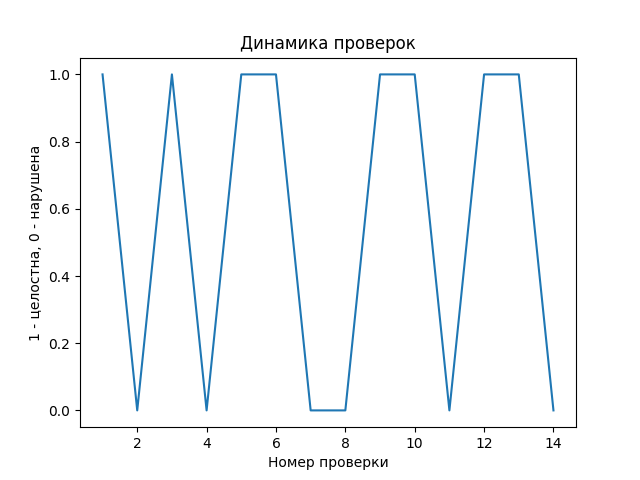
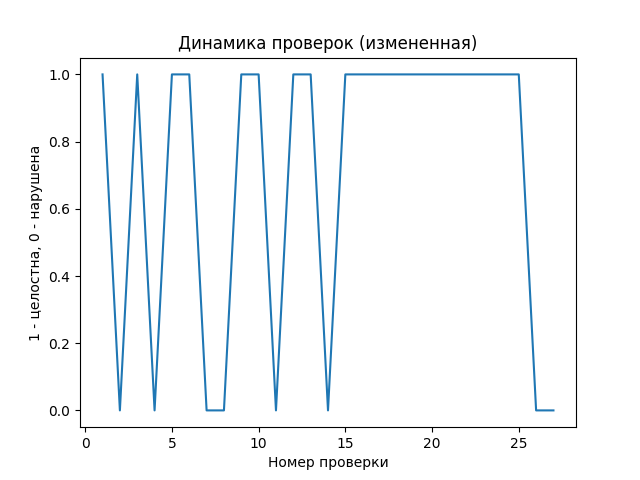
Изменение 8 - индивидуальное задание
Для наглядной демонстрации изменений были удалены графики с индексом 2 (созданные в изм. №5). Все изменения произведены на основе данных, сохраненных в изм.№4.

diff --git a/individual.py b/individual.py
@@ -161,13 +161,13 @@ bad = res_list.count("Схема нарушена!")
 
 plt.figure()
 plt.pie([ok, bad], labels=["Целостные схемы", "Нарушенные схемы"], autopct="%1.1f%%")
-plt.title("Результаты проверки")
-plt.savefig("chartpie_ind2.png")
+plt.title("Результаты проверки (измененные)")
+plt.savefig("chartpie_ind.png")
 
 plt.figure()
 plt.bar(["Целостные схемы", "Нарушенные схемы"], [ok, bad]) 
-plt.title("Сравнение")
-plt.savefig("chartbar_ind2.png")
+plt.title("Сравнение (измененное)")
+plt.savefig("chartbar_ind.png")
 plt.close()
 
 plt.figure()
@@ -180,6 +180,6 @@ for x in res_list:
 plt.plot(Y, vals)
 plt.xlabel("Номер проверки")
 plt.ylabel("1 - целостна, 0 - нарушена")
-plt.title("Динамика проверок")
-plt.savefig("chartline_ind2.png")
+plt.title("Динамика проверок (измененная)")
+plt.savefig("chartline_ind.png")
 plt.close()
